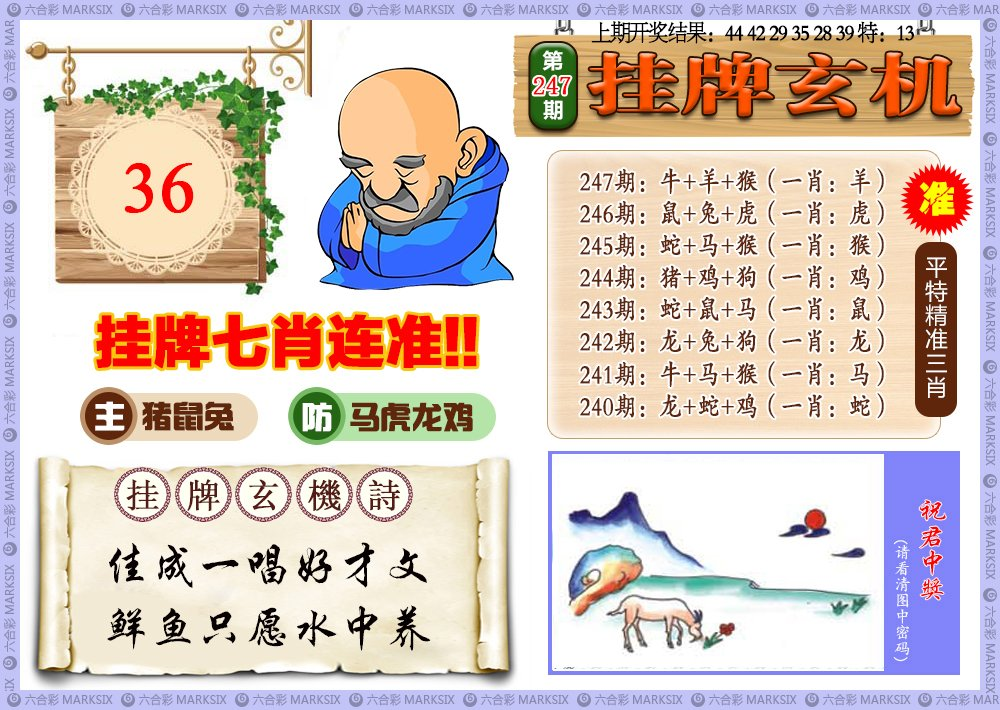
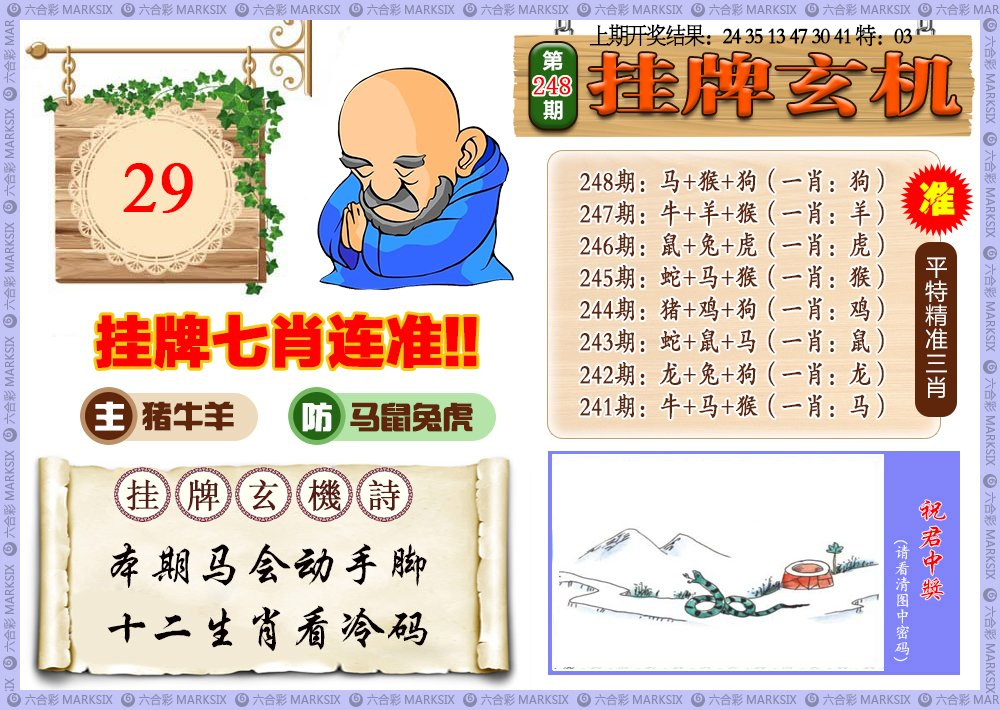
Update:  2023.09.05 00:23:49

diff --git a/Script/Src/xjw/阴阳12码.js b/Script/Src/xjw/阴阳12码.js
@@ -47,23 +47,19 @@ document.writeln("	");
 
 
 
-
-
-document.writeln("");
 document.writeln("");
 document.writeln("<!--开始-->");
 document.writeln("<table style=border-collapse:collapse border=1 width=100% bgcolor=#ffffff><tbody><tr>");
 document.writeln("	<td width=100% height=40><p align=center><font face=\'楷体\' size=\'4\'><b>");
-document.writeln("	<font color=\'#008000\'>247期</font><font color=\'#FF0000\'>☆【特爆六肖12码】☆</font></b></font></table>");
+document.writeln("	<font color=\'#008000\'>248期</font><font color=\'#FF0000\'>☆【特爆六肖12码】☆</font></b></font></table>");
 document.writeln("");
 document.writeln("<table style=border-collapse:collapse border=1 width=100% bgcolor=#ffffff><tbody><tr>");
-document.writeln("	<td width=100% height=40><p align=center><b><font size=\'4\' face=\'楷体\'>阴肖【鼠龙蛇马狗猪】</font></b></font></table>");
+document.writeln("	<td width=100% height=40><p align=center><b><font size=\'4\' face=\'楷体\'>阳肖【牛虎兔羊猴鸡】</font></b></font></table>");
 document.writeln("<table style=border-collapse:collapse border=1 width=100% bgcolor=#ffffff><tbody><tr>");
-document.writeln("	<td width=100% height=40><p align=center><b><font face=\'楷体\'>16.28.24.36.11.35.22.34.18.30.05.29</font></b></font></table>");
+document.writeln("	<td width=100% height=40><p align=center><b><font face=\'楷体\'>15.39.26.38.13.49.33.45.20.32.07.31</font></b></font></table>");
 document.writeln("		");
 document.writeln("	<!--结束-->");
-document.writeln("");
-
+ 
 
 document.writeln("");
 document.writeln("<!--开始-->");
